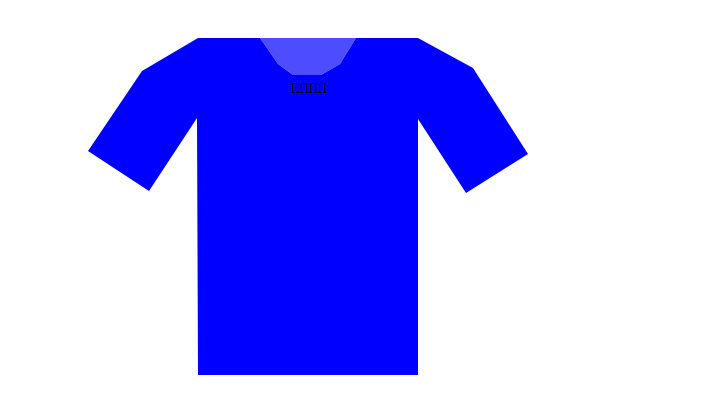
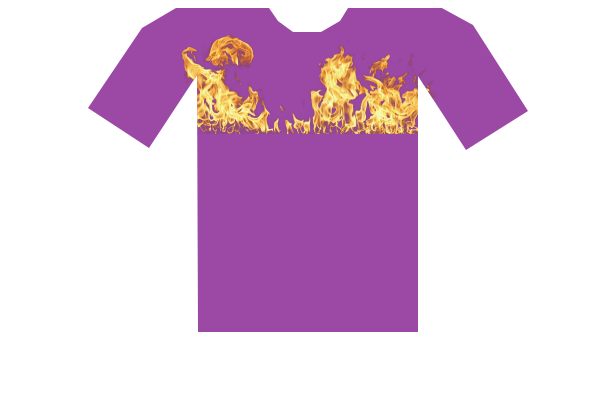
Bug fixed 3

diff --git a/index.js b/index.js
@@ -116,6 +116,22 @@ app.get('/pickup', urlencodedParser, function (req, res) {
     res.render('pickup', {user: app.locals.user, myLocalize: myLocalize});
 });
 
+
+var componentToHex = function (c) {
+    var hex = Number(c).toString(16); 
+    return hex.length == 1 ? "0" + hex : hex;
+}
+
+var rgb2hex = function(string) {
+    var arr = string.substr(4, string.length-5).split(',');
+    // console.log(arr)
+    var r = arr[0].toString(16);
+    var g = arr[1].toString(16);
+    var b = arr[2].toString(16);
+    var hex = "#" + componentToHex(r) +componentToHex(g) + componentToHex(b);
+    return hex.replaceAll(' ', '');
+}
+
 //Аутентификация
 
 var authFun = function (req, res, next) {
@@ -276,7 +292,6 @@ app.get('/tshirt/:index', urlencodedParser, function (req, res) {
                     res.redirect('/');
                 });
             }).catch(error => { 
-                console.log(error);
                 res.redirect('/');
             });
         }).catch(error => { 
@@ -313,9 +328,16 @@ app.get('/edit_tshirt/:index', urlencodedParser, authFun, verifyFun, function (r
         mysql.getByQuery(SELECT_BEST_TAGS).then(tags =>  { 
             mysql.getEntity('tshirts', 'id=' + req.params.index).then(tshirts =>  {
                 if(req.params.index == 0) {
-                    res.render('edittshirt', {user: app.locals.user, tshirt:  null, tags: tags, thisTags: thisTags, myLocalize: myLocalize});
+                        mysql.getEntity('tshirts', 'id=' + (req.query.from == null ? 0 : req.query.from)).then(tshirtFrom =>  {
+                            var fromHtml = ""
+                            if(tshirtFrom.length > 0) fromHtml = tshirtFrom[0].html;
+                            res.render('edittshirt', {user: app.locals.user, tshirt:  null, tags: tags, thisTags: thisTags, myLocalize: myLocalize, color: rgb2hex('rgb(0, 255, 0)'), fromHtml: fromHtml });
+
+                        }).catch(error => { 
+                            res.redirect('/');
+                        });
                 } else if(tshirts.length > 0) {
-                    res.render('edittshirt', {user: app.locals.user, tshirt:  tshirts[0], tags: tags, thisTags: thisTags, myLocalize: myLocalize});
+                    res.render('edittshirt', {user: app.locals.user, tshirt:  tshirts[0], tags: tags, thisTags: thisTags, myLocalize: myLocalize, color: rgb2hex(tshirts[0].color) });
                 } else {
                     res.redirect('/');
                 }
@@ -464,7 +486,6 @@ app.get('/addForm/:index', urlencodedParser, function (req, res) {
             for (var i = 0; i < tshirts.length; i++) {
                 price += tshirts[i].id;
             }
-            console.log(price)
             res.render( "form", {index: req.params.index, order: orders[0], price: price});
         }).catch(error => { 
             res.redirect('/');
@@ -538,11 +559,9 @@ app.post('/addorder', urlencodedParser, function (req, res) {
         mysql.getEntity('orders', '', 'id DESC').then(orders => {
             res.send(orders[0]);
         }).catch(error => {
-        console.log("2")
             res.send('ERROR');
         });
     }).catch(error => {
-        console.log(error)
         res.send('ERROR');
     });
 });
@@ -553,7 +572,6 @@ app.post('/addordertshirt', urlencodedParser, function (req, res) {
     mysql.insertEntity('ordertshirts', orderTshirt).then(result => {
         res.send('OK');
     }).catch(error => {
-        console.log("1");
         res.send('ERROR');
     });
 });
@@ -609,18 +627,16 @@ app.post('/addtshirt', urlencodedParser, function (req, res) {
     var tag = tshirt.tags;
     delete tshirt.tags;
     if(tshirt.id == 0 ) {
+        delete tshirt.id;
         mysql.insertEntity('tshirts', tshirt).then(result => {
             mysql.getEntity('tshirts', '',  'id DESC').then(tshirts => {
-                // mysql.getEntity('tags', 'tshirtID=' + tshirts[0].id).then(tags => {
+                console.log(tshirts[0])
                     addTags(tag, tshirts[0].id);
-                    res.send(tshirts[0].id);
+                    res.send(tshirts[0].id.toString());
                 }).catch(error => {
                     res.send('ERROR');
                 });
-            // }).catch(error => {
-            //     res.send('ERROR');
-            // });
-        }).catch(error => {    
+        }).catch(error => {   
             res.send('ERROR');
         });
     } else {

diff --git a/public/js/script.js b/public/js/script.js
@@ -1,6 +1,10 @@
 
 
 jQuery(function($) {
+    if($('#clippedDiv').text().trim() != ""){
+        $('.img-container').html($('#clippedDiv').text());
+        $('#clippedDiv p, #clippedDiv img').draggable();
+    }
     $('#save-pass').click(onSaveSettings);
     $('.remove-user').click(onRemoveUser);
     $('.update-user').click(onUpdateUser);
@@ -262,7 +266,7 @@ var onSearch = function (event) {
 }
 
  var onChangeColor = function (event) {
-    $("#clippedDiv").attr('style', 'background-color: ' + $(this).val() + ';');
+    $("#clippedDiv").attr('style', 'background-color: ' + $(this).val() + ';  position: relative;');
     $("#miniPolygon").attr('style', 'background-color: ' + $(this).val() + ';');
  }
 
@@ -276,6 +280,7 @@ var onAddTextImg = function (event) {
     });
     $('#clippedDiv').append(text);
     $(text).draggable();
+    $(text).css({"top": "0px", "position": "absolute"});
     $('#addTextModal').modal('hide');
 }
 
@@ -293,10 +298,11 @@ var onDragEnter = function (event) {
 var checkFile = function (data) {
     var img = $('<img>', {"src": data});
     img.css({
-        'width': "300px",
+        'width': "300px"
     });
     $('#clippedDiv').append(img);
     $(img).draggable();
+    $(img).css({"top": "0px", "position": "absolute"});
 }
 
 
